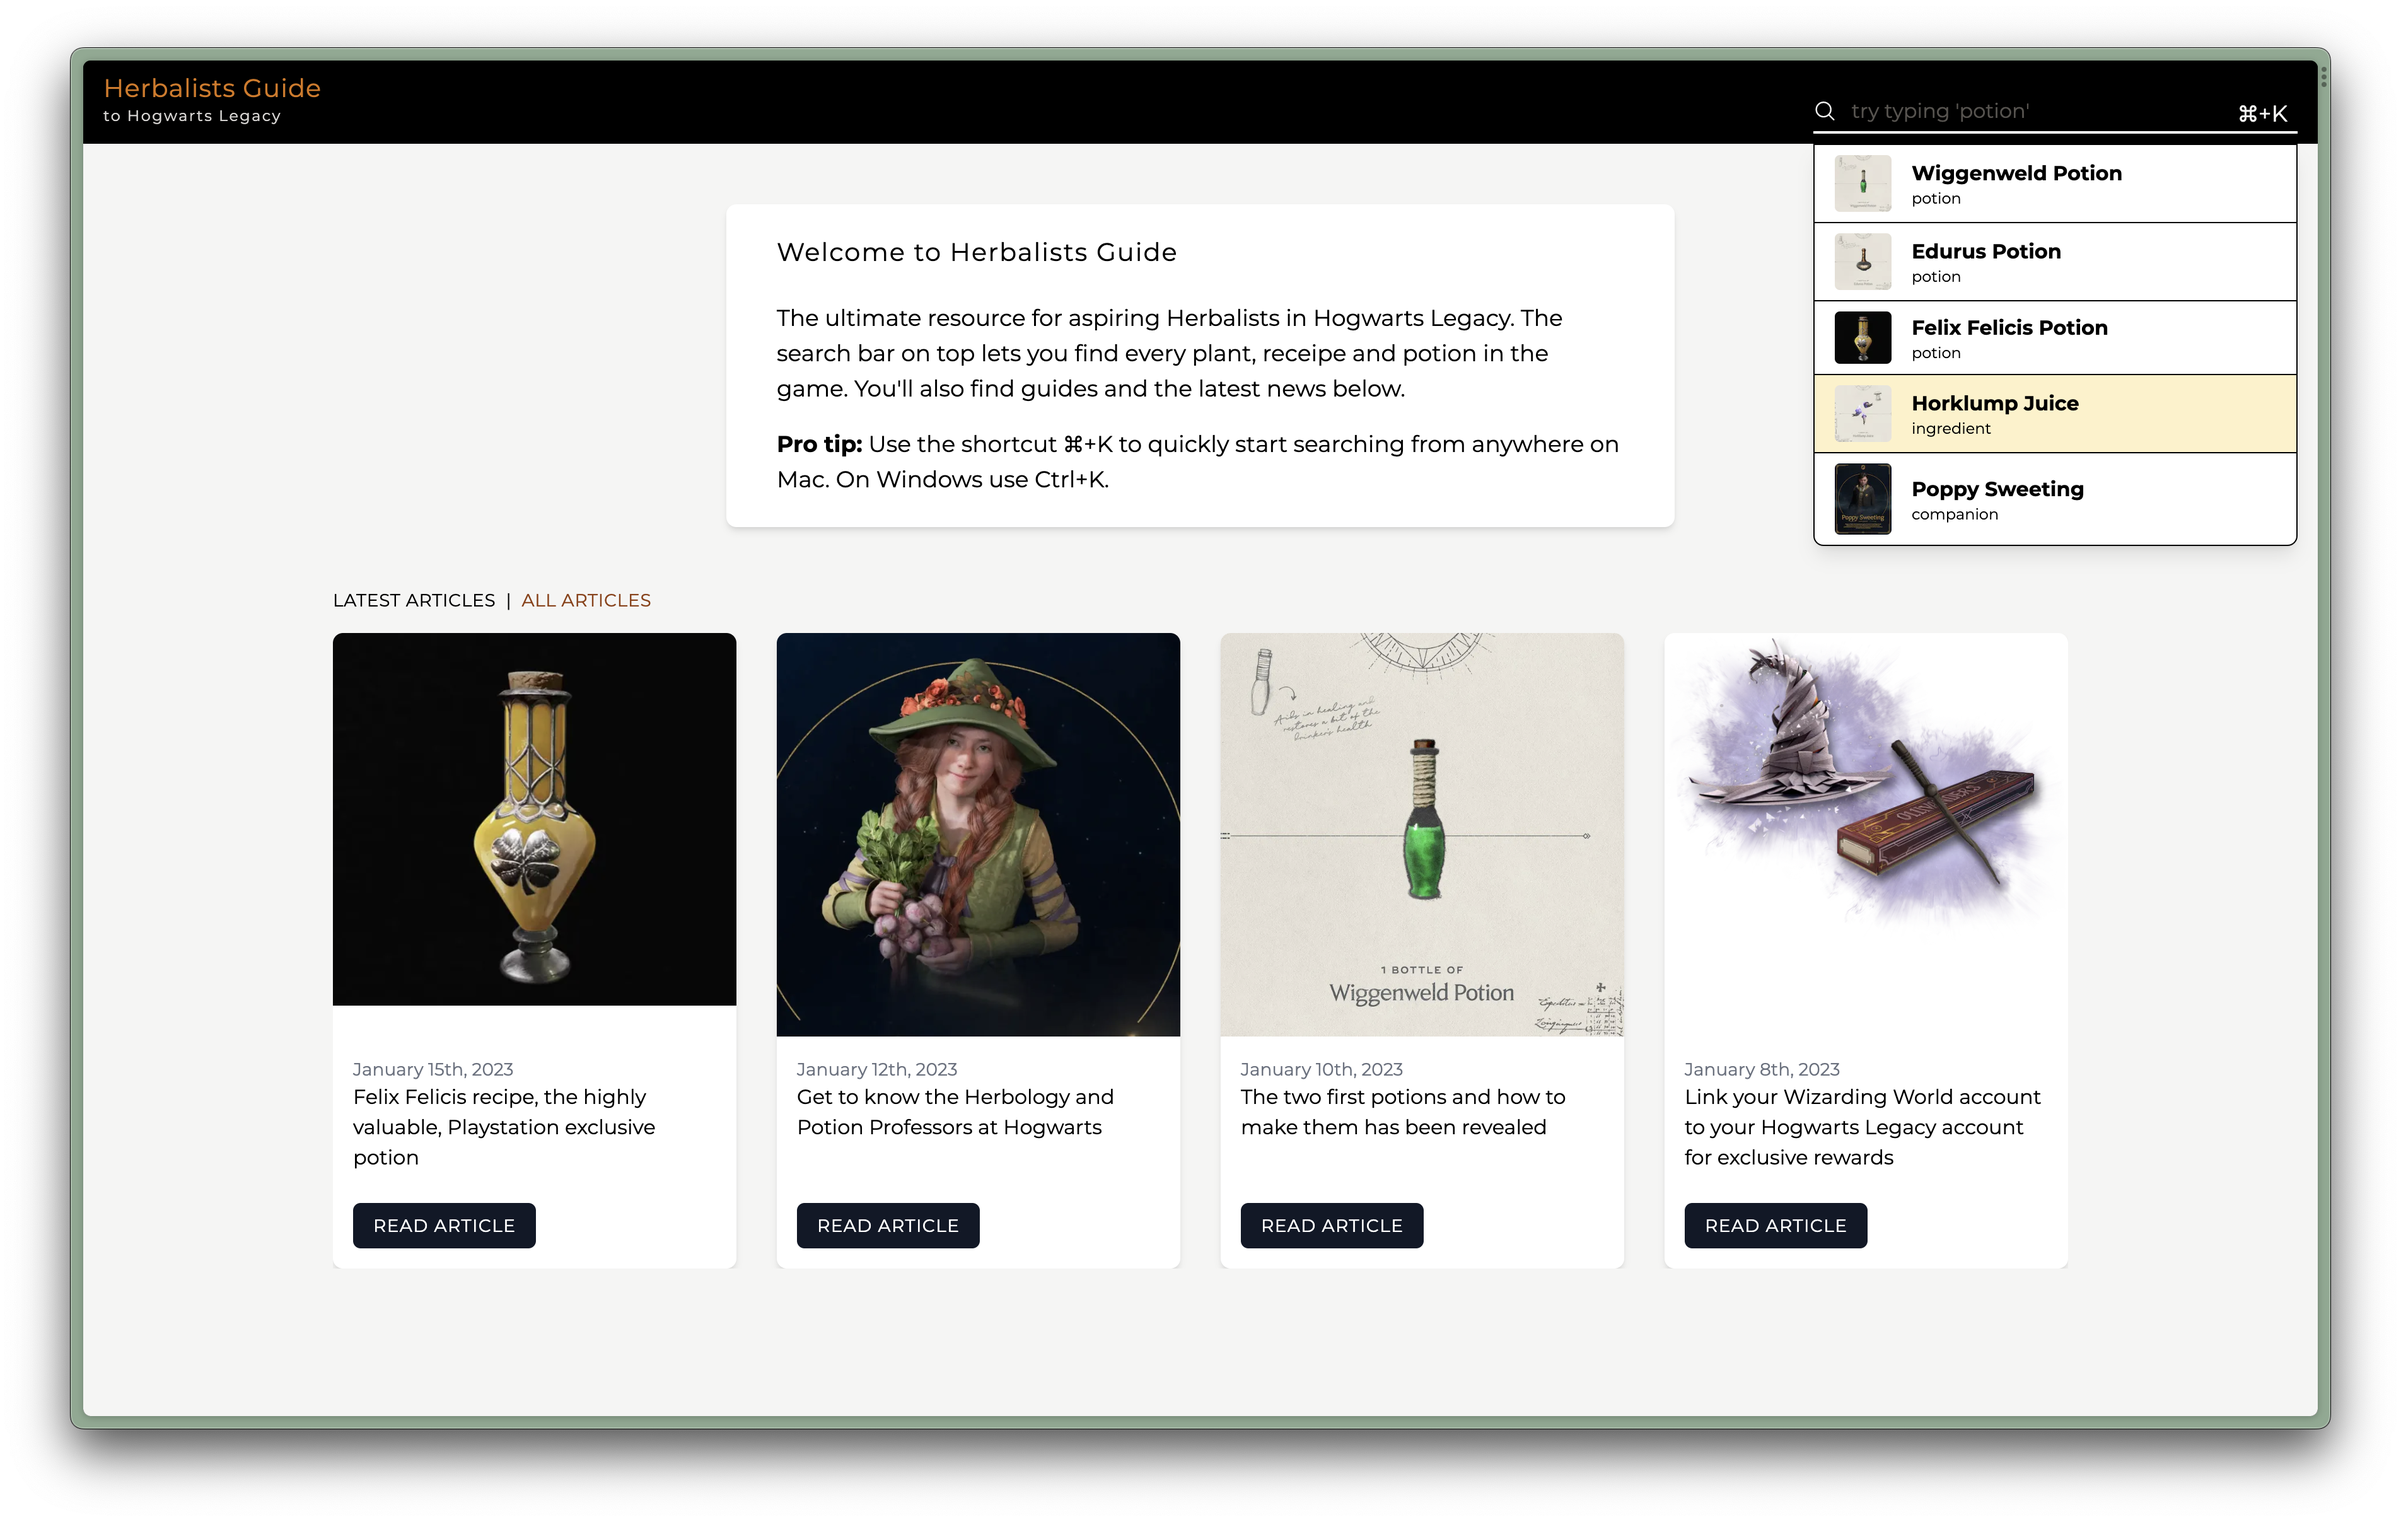
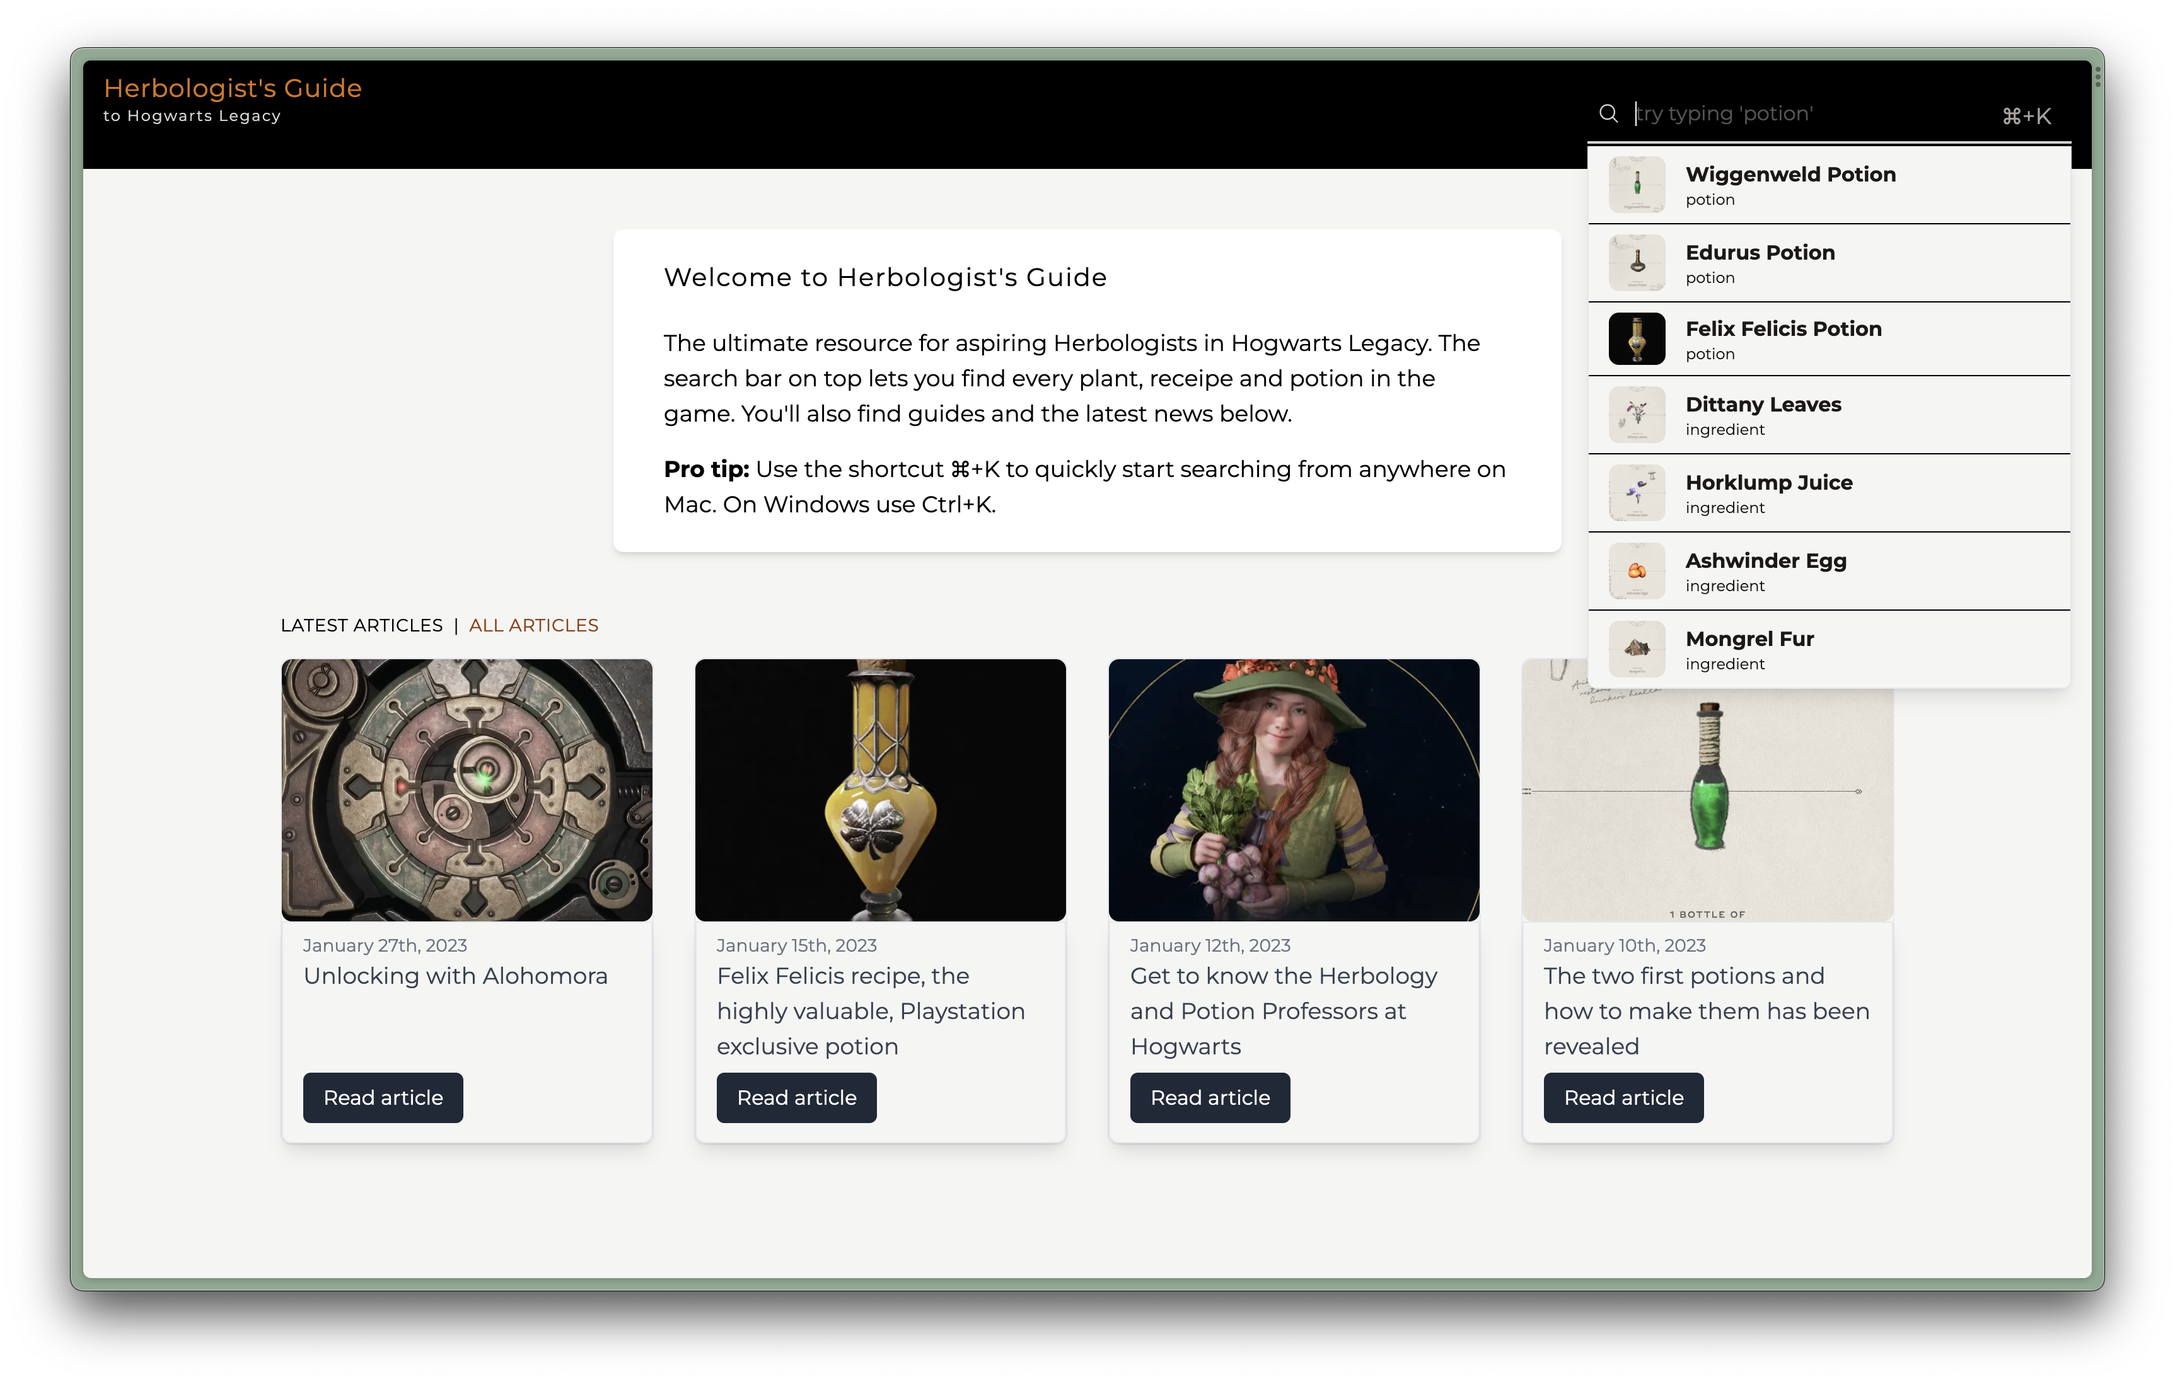
Images and text updates

Changed region(s): [[0.031, 0.031, 0.9925, 0.9599], [0.3101, 0.1548, 0.6823, 0.3716]]

diff --git a/src/views/Apps/AllApps.js b/src/views/Apps/AllApps.js
@@ -11,18 +11,18 @@ export default function AllApps() {
     <div className="bg-opacity-25">
       <div className="flex max-w-screen-xl mx-auto justify-center">
         <div>
-          <h2 className="text-2xl dark:text-gray-100 mt-8 mb-8 text-gray-800">
+          <h2 className="text-2xl dark:text-gray-100 mt-8 mb-4 text-gray-800 font-semibold">
             Main projects
           </h2>
-          <div className="grid md:grid-cols-2 gap-4 sm:gap-8 mt-4 pb-8">
-            <span className="block">
+          <div className="flex justify-between gap-4 sm:gap-8 mt-4 pb-8">
+            <span className="block flex-1">
               <img
-                className="w-full h-full object-cover border border-black"
+                className="w-full h-full object-cover"
                 src={SvipeImage}
                 alt="svipe.no"
               />
             </span>
-            <div className="flex flex-col justify-center gap-4 sm:gap-8">
+            <div className="flex flex-col justify-center gap-4 sm:gap-8 flex-1">
               <h2 className="text-3xl dark:text-gray-100 hidden sm:inline-block mt-8 text-gray-800">
                 Svipe
               </h2>
@@ -45,17 +45,17 @@ export default function AllApps() {
           <div className="grid md:grid-cols-2 gap-4 sm:gap-8 mt-4 pb-8">
             <span className="block">
               <img
-                className="w-full h-full object-cover border border-black"
+                className="w-full h-full object-cover"
                 src={HogwartsImage}
                 alt="hogwartslegacy.io"
               />
             </span>
             <div className="flex flex-col justify-center gap-4 sm:gap-8">
               <h2 className="text-3xl dark:text-gray-100 hidden sm:inline-block mt-8 text-gray-800">
-                Herbalists Guide to Hogwarts Legacy
+                Herbologist's Guide to Hogwarts Legacy
               </h2>
               <p className="text-lg dark:text-gray-200 text-gray-800 leading-8">
-                Herbalists Guide to Hogwarts Legacy is an application with data
+                Herbologist's Guide to Hogwarts Legacy is an application with data
                 and guides focused on herbology and potion mixing in Hogwarts
                 Legacy.
               </p>
@@ -69,7 +69,7 @@ export default function AllApps() {
               </a>
             </div>
           </div>
-          <h3 className="text-2xl dark:text-gray-100 mt-8 text-gray-800">
+          <h3 className="text-2xl dark:text-gray-100 mt-8 text-gray-800 font-semibold">
             Small apps
           </h3>
           <div className="grid md:grid-cols-2 lg:grid-cols-3 gap-8 my-8">

diff --git a/src/components/Footer.js b/src/components/Footer.js
@@ -77,7 +77,7 @@ export default function Footer() {
               target="_blank"
               rel="noreferrer"
             >
-              Hogwarts Legacy
+              Herbologist
             </a>
           </div>
         </div>
